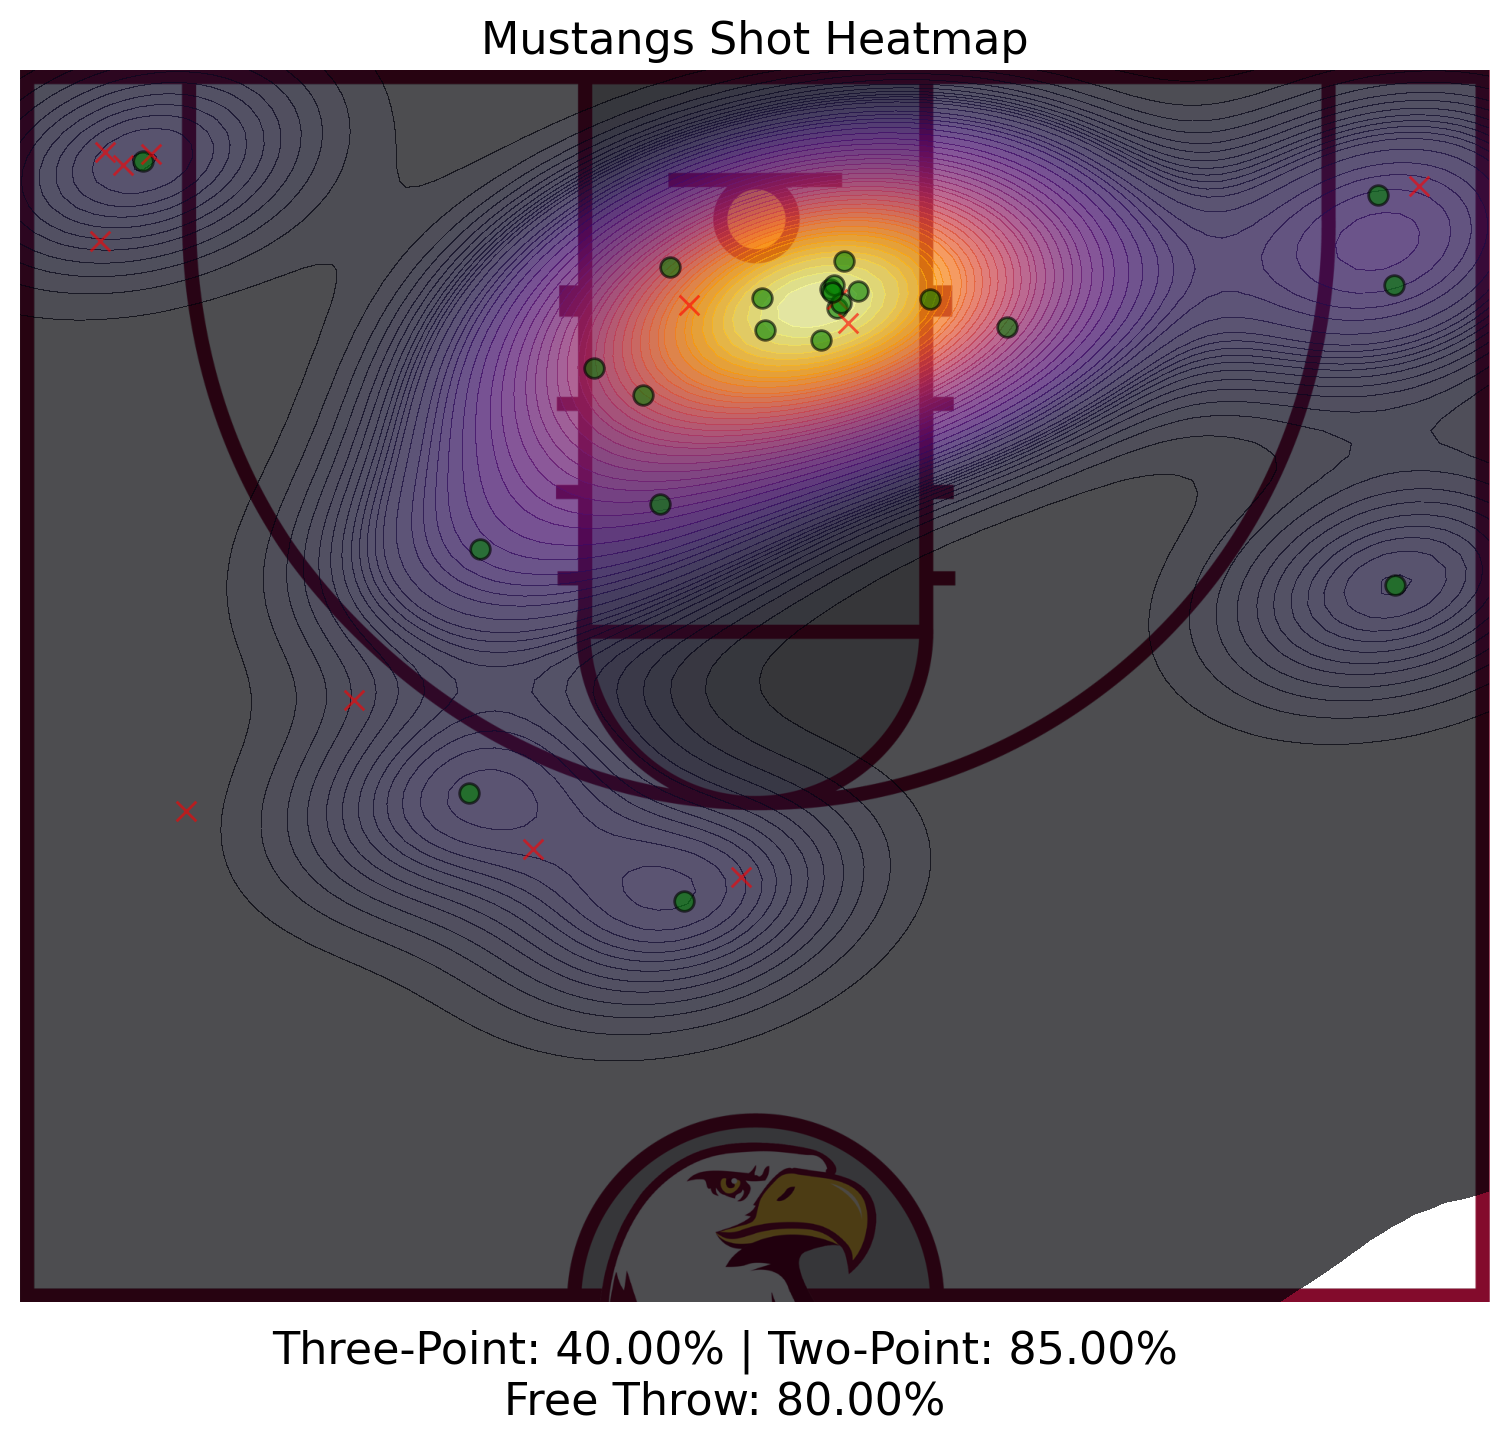
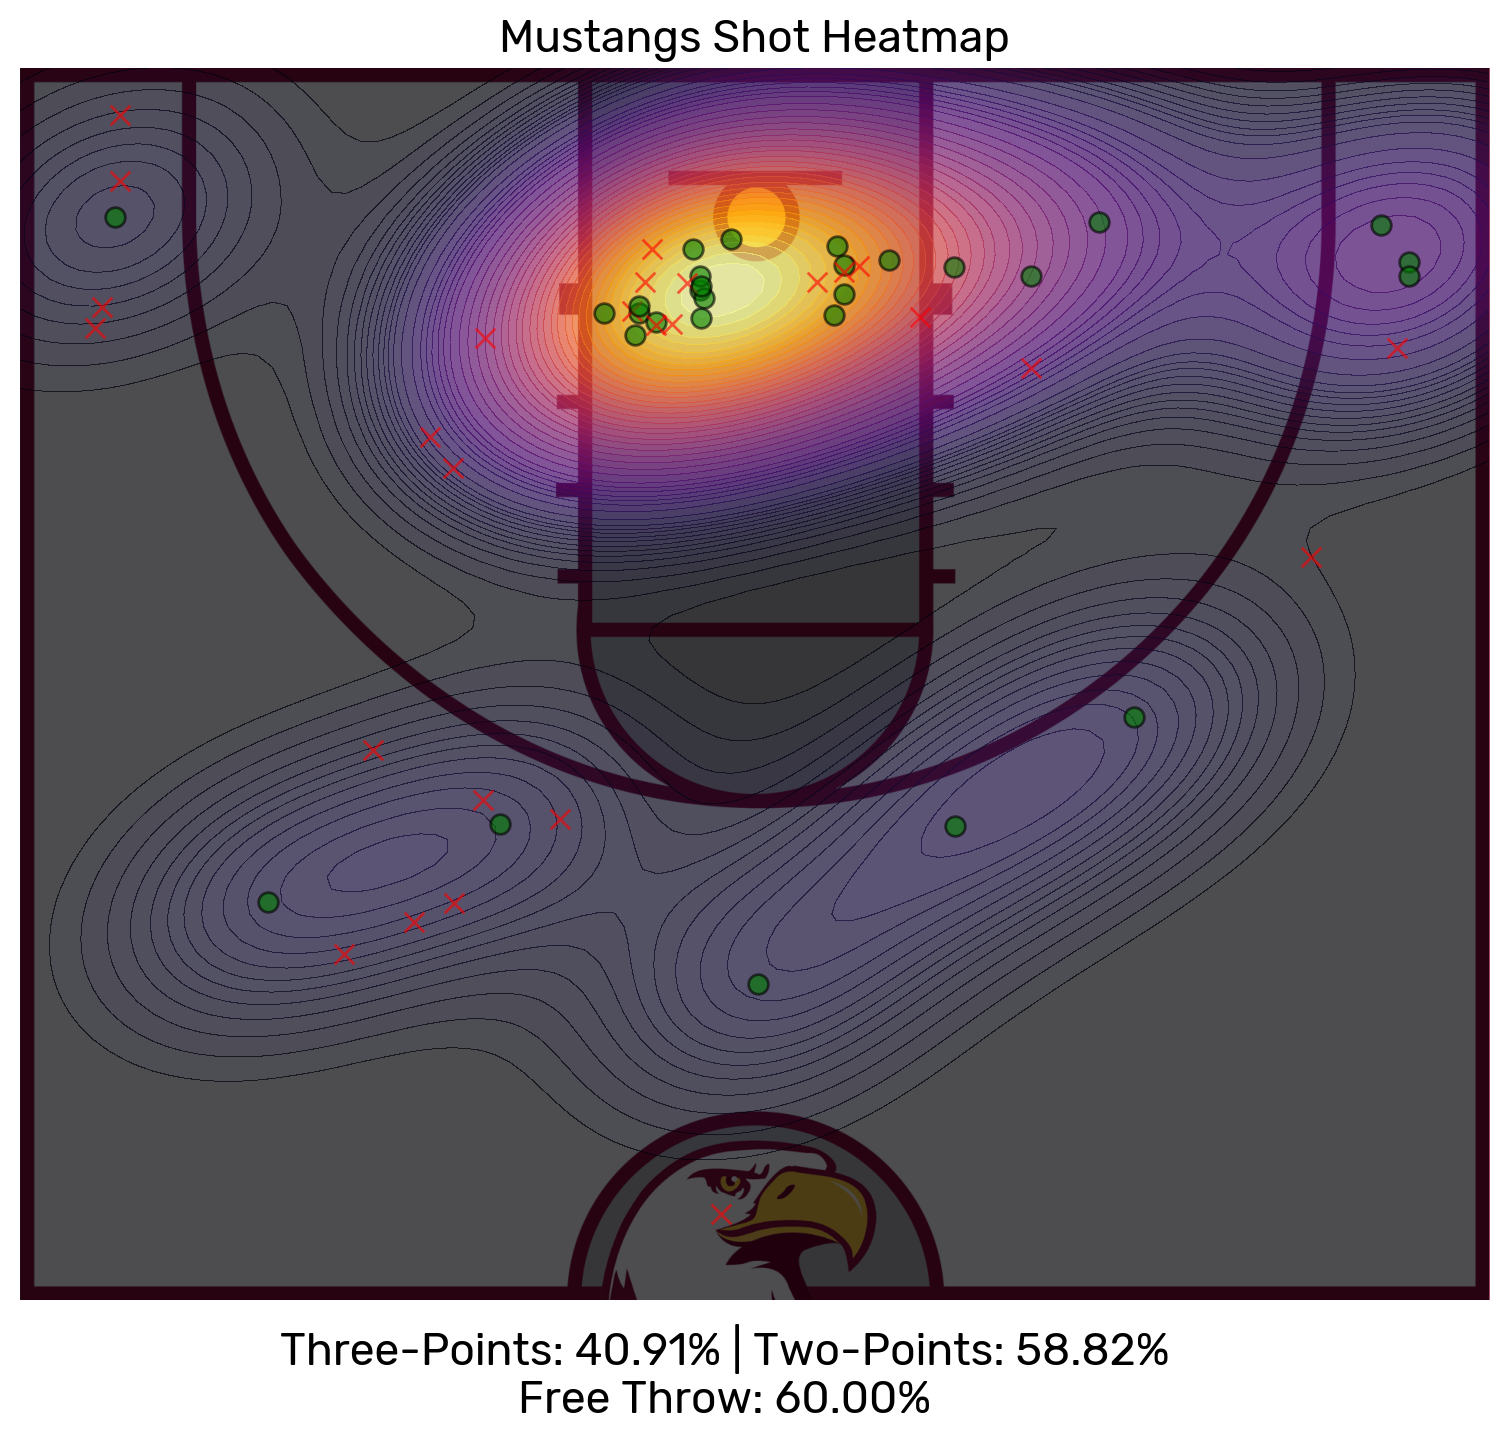
Boys v Mustangs

diff --git a/heatmap.py b/heatmap.py
@@ -14,6 +14,13 @@ court_height_y = 1610 # Determined by Court.png
 with open('X:\\data.json') as f:
     data = json.load(f)
 
+#with open('W:\\PC vs DCG Girls 25.json') as f:
+#    data = json.load(f)
+
+# Set font properties
+plt.rcParams['font.family'] = 'Rubik'
+plt.rcParams['font.sans-serif'] = 'Rubik'
+
 # Function to extract shot positions and made status for a given team
 def extract_shots(team_players):
     global shot_width_x, shot_height_y
@@ -27,8 +34,8 @@ def extract_shots(team_players):
                 y = shot_height_y - y
                 shot_positions.append((x, y))
                 shot_made.append(shot['Made'])
-            else:
-                print(f"Invalid shot detected for player {player['PlayerName']} at position ({x}, {y})")
+            #else:
+                #print(f"Invalid shot detected for player {player['PlayerName']} at position ({x}, {y})")
     return shot_positions, shot_made
 
 def extract_team_names(data):
@@ -146,7 +153,7 @@ def create_heatmap(shot_positions, shot_made, team_name, team_num, percentages, 
 
     # Add text for percentages below the graph
     three_percentage, two_percentage, free_percentage = percentages
-    fig.text(0.5, 0.04, f'Three-Point: {three_percentage:.2f}% | Two-Point: {two_percentage:.2f}%\nFree Throw: {free_percentage:.2f}%', color='black', fontsize=16, ha='center')
+    fig.text(0.5, 0.04, f'Three-Points: {three_percentage:.2f}% | Two-Points: {two_percentage:.2f}%\nFree Throw: {free_percentage:.2f}%', color='black', fontsize=16, ha='center')
 
     # Add player names below the percentages if provided
     if player_names:
@@ -188,5 +195,5 @@ combined_percentages = calculate_percentages(data['Team1Players'] + data['Team2P
 create_heatmap(combined_shot_positions, combined_shot_made, f'{team1_name} and {team2_name} Combined', "Combined", combined_percentages)
 
 # Example usage for individual players
-#create_individual_heatmap(1, ["2", "4"]) # Team 1, players 2 and 4
+create_individual_heatmap(1, ["2", "4"]) # Team 1 (Eagles), players 2 and 4
 #create_individual_heatmap(2, ["1", "3"]) # Team 2, players 1 and 3
